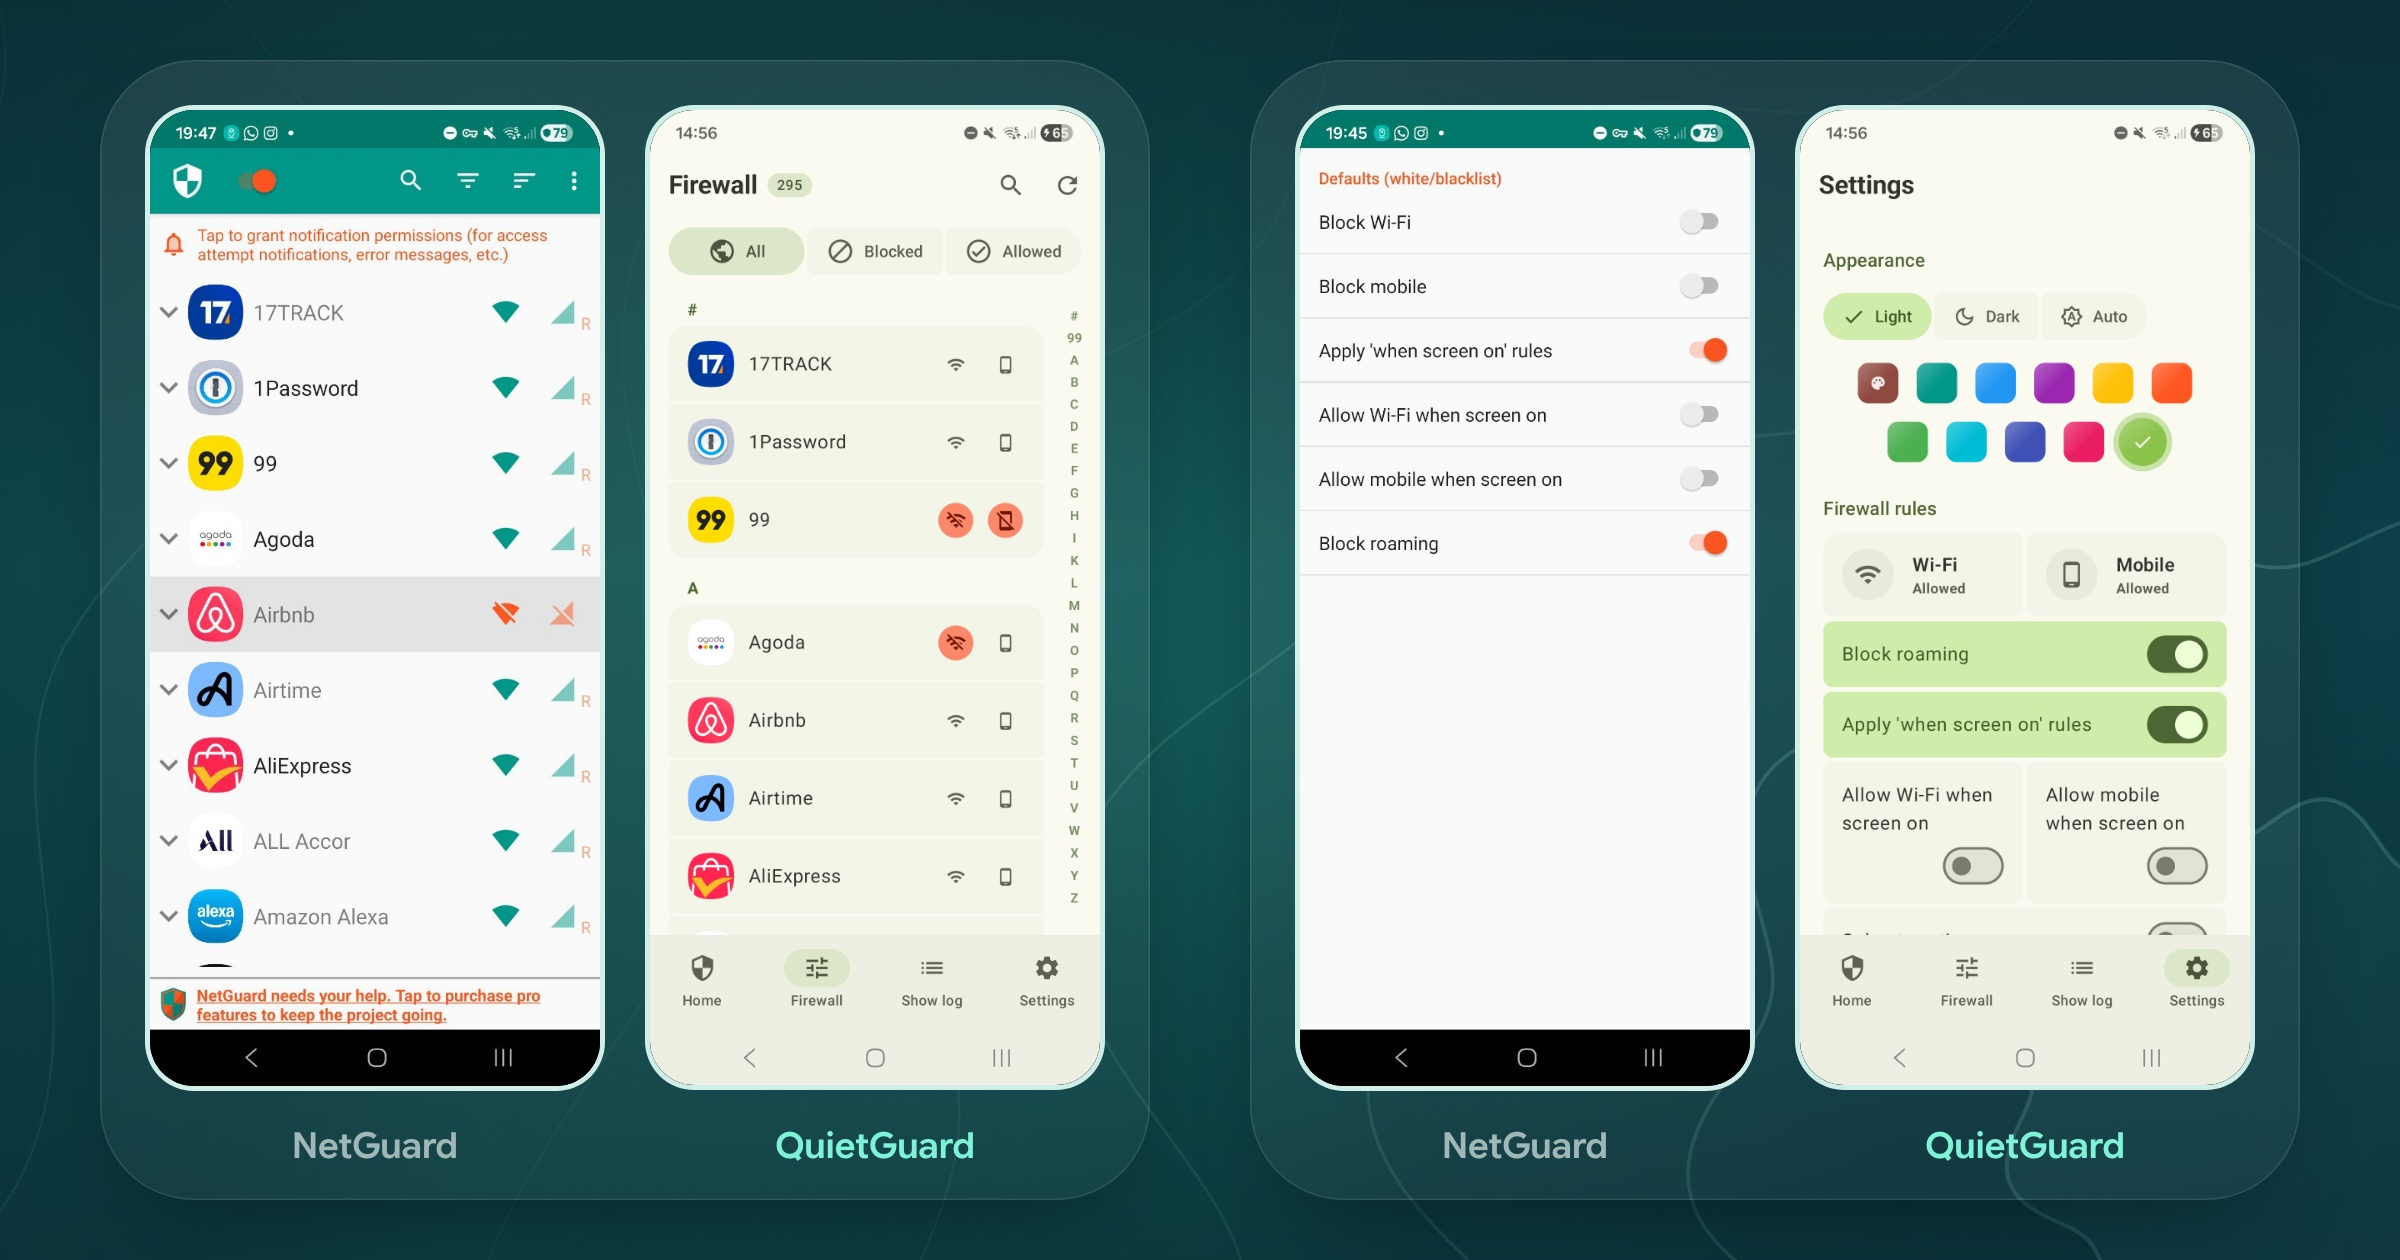
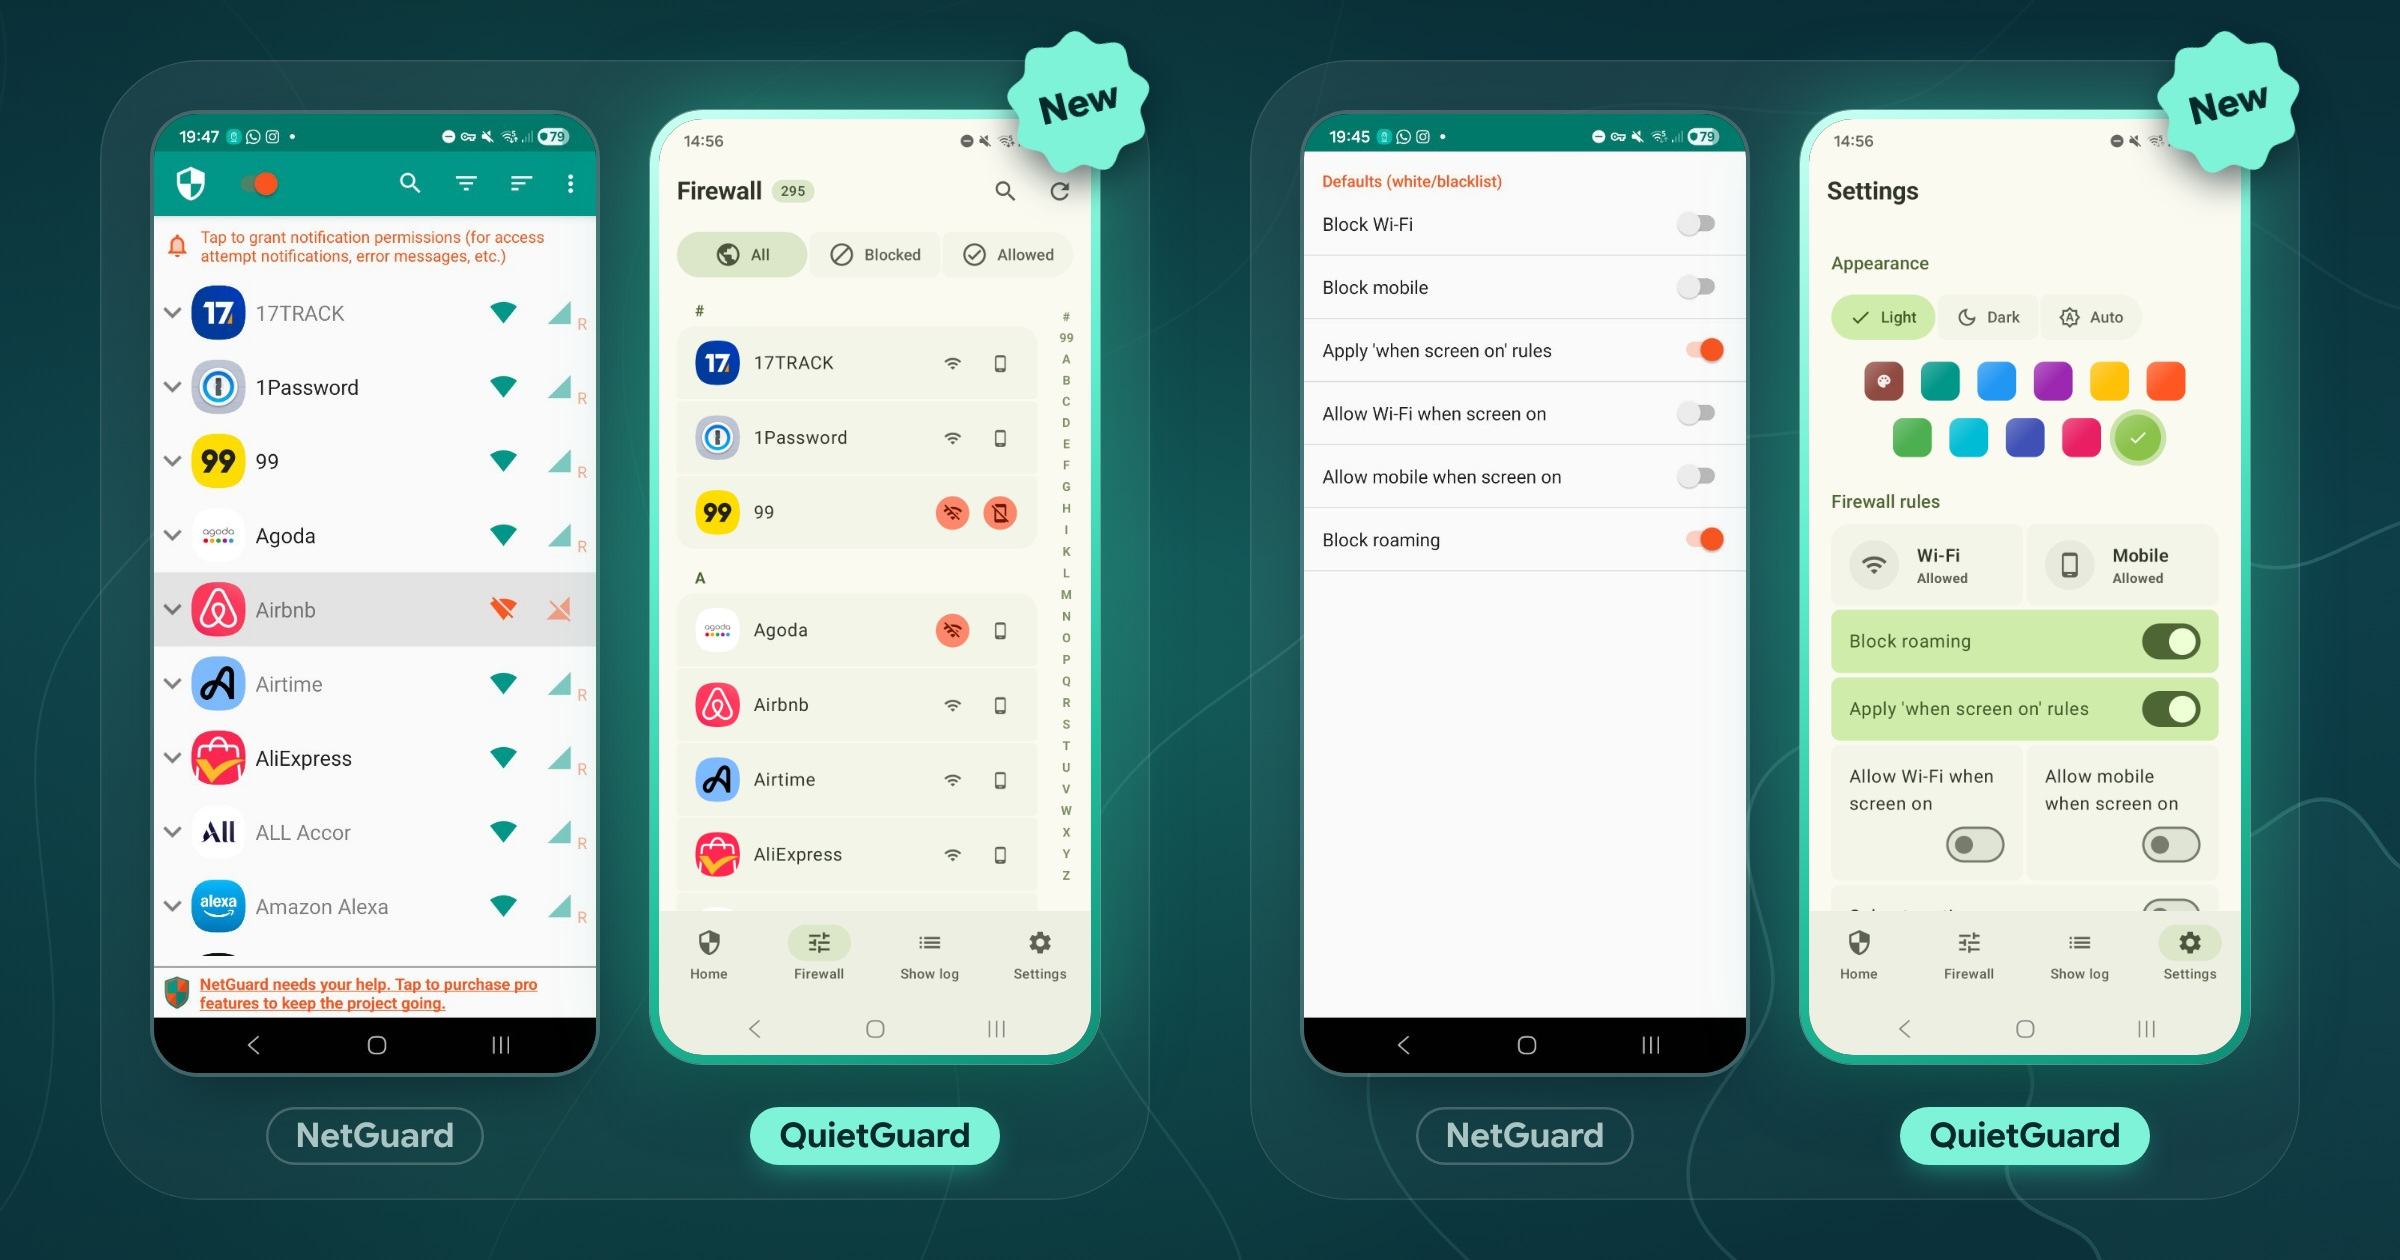
Make the comparison expressive: a glowing brand frame, name pills and a New sticker

Changed region(s): [[0.5312, 0.031, 0.9688, 0.9595], [0.0625, 0.031, 0.5, 0.9286], [0.375, 0.4952, 0.4062, 0.5262]]

diff --git a/store-listing/theme.css b/store-listing/theme.css
@@ -63,17 +63,21 @@ header p{margin:28px auto 0;font-size:40px;line-height:1.28;font-weight:420;colo
 .readme .hero .left{left:250px;top:330px;width:540px}
 .readme .hero .center{left:890px;top:150px;width:620px;z-index:3}
 .readme .hero .right{left:1610px;top:330px;width:540px}
-/* Before and after: the same phone and apps. No device frames, just the two real screens side by side,
-   the same size, on one translucent sheet per pair, each named underneath. */
-.readme .compare .device{--bezel:0px;--radius:44px;width:450px;top:110px;background:none;
-  box-shadow:0 0 0 5px #cfeee7}
+/* Before and after: the same phone and apps on one sheet per pair. The original keeps a thin, quiet ring;
+   QuietGuard steps forward in a glowing mint frame, with a scalloped "New" sticker and a filled name pill. */
+.readme .compare .device{width:450px;top:110px}
 .readme .compare .device .screen{border-radius:44px;overflow:hidden}
+.readme .compare .device.before{--bezel:4px;--radius:48px;background:#ffffff30;box-shadow:0 30px 60px -30px #00161ccc}
+.readme .compare .device.after{--bezel:9px;--radius:53px;background:linear-gradient(155deg,#c9fff3,#5ff0cf 38%,#1fbf9b 72%,#0f8f78);
+  box-shadow:0 0 0 1px #ffffff55,0 0 90px -10px #2bd3ac99,0 40px 80px -30px #00161cf0}
 .readme .compare .pair1.before{left:150px}
 .readme .compare .pair1.after{left:650px}
 .readme .compare .pair2.before{left:1300px}
 .readme .compare .pair2.after{left:1800px}
-.readme .compare .device.before::before{content:'';position:absolute;z-index:-1;left:-50px;top:-50px;width:1050px;height:1140px;border-radius:94px;
-  background:linear-gradient(170deg,#ffffff14,#ffffff08);box-shadow:inset 0 0 0 1.5px #ffffff1c,0 40px 90px -50px #00141acc}
-.readme .compare .device-label{transform:translateY(calc(var(--h) + 38px));font-size:36px;font-weight:600;letter-spacing:-.005em}
-.device-label.before{color:#9fb7b6;font-weight:500}
-.device-label.after{color:var(--mint)}
+.readme .compare .device.before::before{content:'';position:absolute;z-index:-1;left:-50px;top:-50px;width:1050px;height:1140px;border-radius:98px;
+  background:radial-gradient(120% 80% at 75% 40%,#2bd3ac24,transparent 60%),linear-gradient(170deg,#ffffff12,#ffffff06);box-shadow:inset 0 0 0 1.5px #ffffff1a}
+.readme .compare .device-label{transform:translateY(calc(var(--h) + 30px));display:flex;justify-content:center}
+.readme .compare .device-label span{padding:12px 30px;border-radius:999px;font-size:34px;line-height:1;font-weight:650;letter-spacing:-.005em}
+.device-label.before span{color:#a9c4c2;box-shadow:inset 0 0 0 2.5px #ffffff38;font-weight:500}
+.device-label.after span{color:#062a2a;background:var(--mint);box-shadow:0 10px 30px -10px #2bd3acaa}
+.readme .compare .sticker{position:absolute;z-index:5;width:150px;height:150px;transform:rotate(-14deg);filter:drop-shadow(0 12px 18px #00161c99)}

diff --git a/store-listing/theme.js b/store-listing/theme.js
@@ -75,6 +75,17 @@ export default {
     if (slide.layout === 'compare') {
       // Each name sits just under its screen.
       for (const label of devices[0].node.parentElement.querySelectorAll('.device-label')) label.style.setProperty('--h', `${devices[0].box.height}px`);
+      // A scalloped "New" sticker on the top corner of each new screen.
+      for (const {spec, box, node} of devices) {
+        if (!/after/.test(spec.role || '')) continue;
+        const sticker = document.createElement('div');
+        sticker.className = 'sticker';
+        sticker.dataset.checkBounds = '';
+        sticker.innerHTML = `<svg viewBox="0 0 150 150" width="150" height="150"><g fill="#7ff3d8">${shapes.cookie(75, 75, 72)}</g>` +
+          '<text x="75" y="88" text-anchor="middle" font-family="Quiet" font-weight="750" font-size="38" fill="#062a2a">New</text></svg>';
+        Object.assign(sticker.style, {left: `${box.left + box.width - 96}px`, top: `${box.top - 82}px`});
+        node.parentElement.append(sticker);
+      }
       return;
     }
     const stacked = /stack/.test(slide.layout || '');

diff --git a/store-listing/studio/core.js b/store-listing/studio/core.js
@@ -122,7 +122,7 @@ for (const {spec, box} of context.devices) {
   const label = document.createElement('div');
   label.className = `device-label${spec.role ? ` ${spec.role}` : ''}`;
   label.dataset.checkBounds = '';
-  label.textContent = spec.label;
+  label.append(Object.assign(document.createElement('span'), {textContent: spec.label}));
   Object.assign(label.style, {left: `${box.left}px`, width: `${box.width}px`, top: `${box.top}px`});
   main.append(label);
 }
